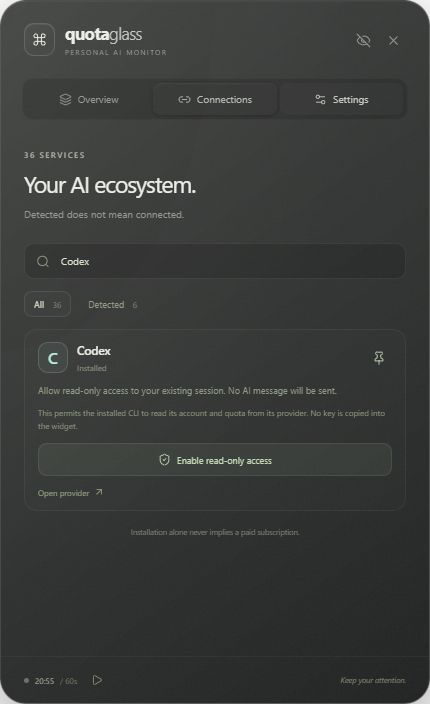
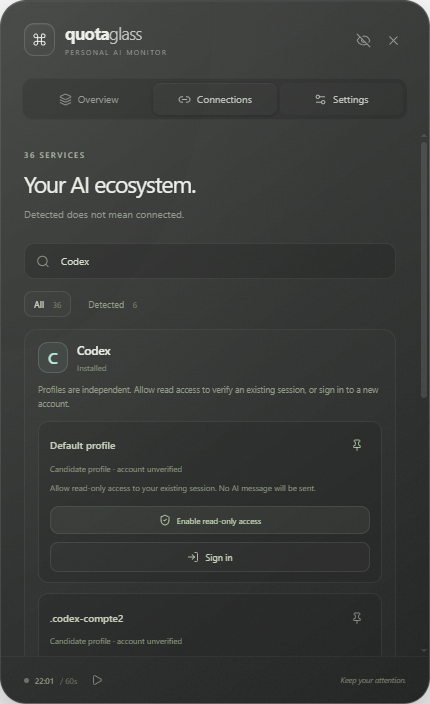
docs: record multi-profile coverage and packaged login verification

diff --git a/README.md b/README.md
@@ -6,26 +6,28 @@ Widget Windows autonome FR / EN pour découvrir les outils IA locaux et lire les
 
 Double-cliquer `release/Quota-Glass-0.1.0-win-x64.exe`. Aucun droit administrateur nécessaire. Le lancement portable extrait temporairement Electron ; patienter au premier démarrage. Application non signée : Windows peut afficher un avertissement. L'application ne télécharge pas de modèles et n'envoie aucun message IA.
 
-L'icône près de l'horloge (parfois dans les icônes masquées) affiche/masque le widget au clic. Ctrl+Alt+Q fait de même. Le bouton de fermeture masque la fenêtre ; Quitter arrête le processus et la collecte. Masquer conserve la collecte ; Pause la suspend. La position est conservée. Le mode compact réduit les cartes. La fenêtre peut rester au premier plan.
+L'icône près de l'horloge (parfois dans les icônes masquées) affiche/masque le widget au clic. Ctrl+Alt+Q fait de même. Le bouton œil barré masque ; la croix visible « Quitter » arrête le processus et la collecte. Une fermeture native de la fenêtre masque également le widget. Masquer conserve la collecte ; Pause la suspend. La position est conservée. Le mode compact réduit les cartes. La fenêtre peut rester au premier plan. Quitter l'ancienne version avant de remplacer son exécutable portable.
 
 ## Connecter les données
 
-1. Ouvrir Connexions. Les installations et traces de configuration sont détectées sans ouvrir les fichiers d'identifiants.
-2. Pour Codex / Claude Code, utiliser d'abord le parcours de connexion du CLI si nécessaire (`codex login` / `claude auth login`). Ne pas transmettre de mot de passe ou de clé dans un chat.
-3. Choisir « Autoriser la lecture seule » sur le service voulu. Le widget réutilise alors la session de ce CLI ; aucun secret n'est copié dans le widget.
+1. Ouvrir Connexions. Les outils et profils sont détectés sans ouvrir les fichiers d'identifiants. Chaque profil possède sa propre ligne. Les dossiers .codex, .codex-compte1, .codex-compte2 sont des exemples : les noms ne sont pas codés en dur. Un dossier candidat ne prouve pas une connexion valide ni un compte distinct.
+2. Pour un profil déjà connecté, cliquer « Autoriser la lecture seule », puis l'épingler si souhaité. L'autorisation du profil par défaut n'est pas étendue aux autres profils. « Retirer l'accès » ne déconnecte pas le CLI et n'affecte pas les autres profils.
+3. « Se connecter » ouvre un terminal Windows : Codex utilise `codex login`, Claude `claude auth login`, Gemini démarre en interactif (utiliser `/auth` si nécessaire). Vous réalisez vous-même le parcours officiel. Ce bouton autorise la lecture du seul profil sélectionné et l'épingle. « Ajouter un compte » crée un profil séparé dans les données du widget, puis ouvre sa connexion, sans copier de clé ni remplacer les autres profils. Ne pas transmettre de mot de passe ou code dans un chat.
 4. Codex : lecture du compte et des fenêtres de quota ChatGPT si le serveur les expose. Un compte API n'est pas un abonnement ChatGPT.
 5. Claude Code : état du compte et formule lorsque le CLI les fournit ; le quota n'est pas exposé par le connecteur de cette version.
 6. Ollama / LM Studio : inventaire des modèles du service local, si installé et en cours d'exécution sur son port par défaut, après autorisation. Aucun quota cloud fictif.
 
-Gemini CLI, Cursor, Windsurf, Copilot et les agents : détection selon les chemins connus, pas de promesse de quotas. Les autres services sont au catalogue « Prévu » : ils ne sont pas connectés. Voir SUPPORT.md pour les capacités exactes. Les agents qui utilisent un fournisseur amont ne sont pas additionnés à sa facturation.
+Si le CLI manque : « Déjà installé ? » sélectionne son exécutable .exe ou son launcher npm .cmd ; « Installer le CLI » ouvre sa documentation officielle, sans installation automatique. « Ajouter un dossier de profil » importe un emplacement personnalisé. Codex et Claude attendent leur dossier de configuration ; Gemini attend le home contenant .gemini, pas .gemini directement. « Rechercher à nouveau » relance la découverte ; après connexion, revenir au widget ou actualiser. Une modification du fichier de connexion est surveillée pendant dix minutes ; la fermeture du terminal relance aussi la recherche. Un terminal laissé ouvert reste sous votre contrôle.
+
+Gemini CLI propose maintenant le login, mais sa formule et ses quotas ne sont toujours pas lus. Cursor, Windsurf, Copilot et les agents : détection selon les chemins connus, pas de promesse de quotas. Les autres services sont au catalogue « Prévu » : ils ne sont pas connectés. Voir SUPPORT.md pour les capacités exactes. Les agents qui utilisent un fournisseur amont ne sont pas additionnés à sa facturation.
 
 Réglages > Langue permet Français / English. Actualisation par défaut toutes les 60 secondes ; les fournisseurs peuvent retourner des données retardées. Les erreurs conservent les dernières valeurs avec indication de péremption. Alertes aux seuils 20% / 5%, désactivables. Démarrage avec Windows désactivé dans cette version portable pour ne pas créer une entrée vers un exécutable extrait éphémère. Le flou natif dépend de Windows ; repli sombre translucide sur Windows 10.
 
 ## Données et sécurité
 
-Préférences uniquement sous `%APPDATA%/Quota Glass/settings.json`. Une session CLI est utilisée seulement après accord par service. Aucun cookie navigateur, conversation, clé API ou jeton n'est importé. Pas de télémétrie. Aucun login automatique. Révoquer l'accès dans Connexions retire l'autorisation du widget, sans déconnecter le CLI. Supprimer les préférences réinitialise les autorisations du widget.
+Préférences sous `%APPDATA%/Quota Glass/settings.json` ; chemins des profils et exécutables sélectionnés sous registry.json. Aucun secret n'y est stocké. Les nouveaux profils de connexion vivent sous profiles/ dans ce même dossier ; leurs identifiants sont écrits et gérés par les CLI officiels, pas importés par le widget. Scripts temporaires de lancement sous login-scripts/, répertoire de travail neutre sous login-workspaces/. Une session CLI est utilisée seulement après accord pour ce profil. Aucun cookie navigateur, conversation, clé API ou jeton n'est importé. Pas de télémétrie. Aucun login lancé sans clic utilisateur. Supprimer les préférences réinitialise les autorisations du widget, sans supprimer les profils CLI.
 
-L'interface est sandboxée, sans Node, avec IPC validé et URLs externes prédéfinies. Le processus principal réalise les accès système. Un lanceur CLI npm inconnu est refusé. Les moteurs locaux n'acceptent que les adresses loopback fixes 11434/1234. Une identité active par CLI ; multi-compte simultané non implémenté.
+L'interface est sandboxée, sans Node, avec IPC validé et URLs externes prédéfinies. Le renderer ne choisit ni commandes ni chemins shell ; dialogues système et registre sont contrôlés par le main. Un lanceur CLI npm inconnu est refusé. CODEX_HOME / CLAUDE_CONFIG_DIR / GEMINI_CLI_HOME sont appliqués uniquement au processus du profil sélectionné. Les moteurs locaux n'acceptent que les adresses loopback fixes 11434/1234. Plusieurs profils sont suivis simultanément ; deux profils ne sont signalés comme le même compte que si une identité serveur fiable le confirme, jamais à partir du seul email masqué. Les quotas ne sont pas additionnés.
 
 ## Développer
 
@@ -38,7 +40,7 @@ Node 24 utilisé lors de la construction. Dans le dossier du projet :
     npm run test:ui
     npm run dist
 
-Le test navigateur utilise Microsoft Edge installé. `node scripts/smoke.cjs` exerce l'application Electron ; ajouter le chemin de `release/win-unpacked/Quota Glass.exe` pour la version empaquetée. Les répertoires de test sont isolés dans le scratch Hermes. Les réponses synthétiques n'existent que dans les tests et ne sont jamais présentées comme des quotas réels. `QG_DATA_DIR` permet de choisir un dossier de préférences séparé (ne pas pointer vers une configuration d'un autre produit).
+Le test navigateur utilise Microsoft Edge installé. `node scripts/smoke.cjs` exerce l'application Electron ; ajouter le chemin de `release/win-unpacked/Quota Glass.exe` pour la version empaquetée. `node scripts/test-native-login.cjs` teste le bouton, le terminal, l'isolation et les permissions avec un faux CLI explicitement synthétique ; aucun compte réel n'est connecté. Les répertoires de test sont isolés dans le scratch Hermes. Les réponses synthétiques n'existent que dans les tests. `QG_DATA_DIR` permet de choisir un dossier de préférences séparé (ne pas pointer vers une configuration d'un autre produit).
 
 ## English quick start
 

diff --git a/SUPPORT.md b/SUPPORT.md
@@ -6,16 +6,16 @@ Aucun fournisseur n'est présenté comme universellement connecté. Les sources 
 |---|---|---|---|
 | Codex CLI | PATH, npm, extension VS Code | `codex app-server`, `account/read`, après accord | `account/rateLimits/read`, fenêtres serveur si abonnement ChatGPT et réponse disponible |
 | Claude Code | PATH, npm, extension VS Code | `claude auth status --json`, après accord | Non accessible par API publique implémentée ; ouvrir Claude Usage |
-| Gemini CLI | PATH, npm | Non implémenté | Non implémenté ; ne pas confondre AI Studio et abonnement Gemini |
+| Gemini CLI | PATH, npm ; profils via home/.gemini | Login terminal officiel, vérification serveur de compte non implémentée | Non implémenté ; ne pas confondre AI Studio et abonnement Gemini |
 | OpenCode / Aider / Continue | Installation/configuration selon outil | Fournisseur amont | Pas de quota propre ni double comptage |
 | Ollama / LM Studio | CLI et chemins connus | Sans compte cloud | Inventaire local via API loopback après accord ; pas de faux quota |
 | Cursor / Windsurf / Copilot | CLI/app/extension selon produit | Non implémenté | Non implémenté |
 | Autres entrées du catalogue | Catalogue seulement | Prévu | Prévu |
 
 Source protocole Codex vérifiée sur le CLI installé via `codex app-server generate-ts`, notamment RateLimitWindow, RateLimitSnapshot, GetAccountRateLimitsResponse et Account. Protocole expérimental : les évolutions peuvent demander une mise à jour. Aucune requête de génération n'est faite. Aucune utilisation de cookies ou endpoints privés cloud.
-Les exécutables npm sont lancés via leurs points d'entrée Node connus, pas par une commande shell composée. Un launcher inconnu est refusé. Un fichier de configuration seul n'établit jamais une installation ni un abonnement.
+Les lectures en arrière-plan lancent les points d'entrée Node connus, sans shell. La connexion à la demande ouvre un terminal Windows via un script à commandes fixes et chemins validés/échappés. Aucun texte de commande arbitraire reçu du renderer. Un launcher npm inconnu est refusé. Un fichier de configuration seul n'établit jamais une installation ni un abonnement.
 Les quotas ChatGPT conversationnels ne sont pas les quotas Codex. Les chiffres locaux d'activité ne remplacent pas le quota serveur. Les API facturées restent distinctes des abonnements chat.
 
-FR/EN disponibles. Une seule identité active par CLI dans cette version ; pas de changement automatique de compte. Aucun secret fourni directement au widget : il délègue à la session CLI existante, après accord. Connexion initiale ou renouvellement dans le CLI/fournisseur lui-même ; le widget n'exécute pas de login automatique.
+FR/EN disponibles. Plusieurs profils Codex/Claude/Gemini sont gérés avec autorisations indépendantes. Détection bornée des répertoires Codex/Claude standards et suffixés, overrides d'environnement et registre manuel. Gemini utilise un home qui contient .gemini ; ses emplacements personnalisés peuvent être ajoutés manuellement. Les profils gérés par le widget sont retrouvés grâce à registry.json. Ajouter un compte crée un nouveau dossier, sans copie des identifiants d'un autre profil. Aucun login sans clic ; le parcours officiel reste sous contrôle humain. Les limites de quota Claude/Gemini ne changent pas du seul fait que leur login est accessible.
 
 Vérification finale et limites de la machine : voir VERIFICATION.md généré lors de la livraison.

diff --git a/VERIFICATION.md b/VERIFICATION.md
@@ -1,5 +1,20 @@
 # Vérification réelle — 2026-10-23
 
+## Mise à jour multi-profils et login terminal
+
+- 38 tests unitaires/subprocess réussis ; typecheck réussi ; 2 parcours UI Edge réussis ; audit npm zéro vulnérabilité signalée.
+- Découverte Windows réelle : profils Codex par défaut, .codex-compte1 et .codex-compte2 reconnus avec IDs distincts. Présence de configuration uniquement : pas de compte réel interrogé.
+- Smoke natif empaqueté : 12 contrôles réussis, rapport C:/Users/Administrator/AppData/Local/hermes/cache/scratch/quota-glass-smoke-1792785673554/report.json. Raccourci de test distinct pour ne pas prendre celui d'une autre instance.
+- Bouton de login testé via le véritable IPC et terminal Windows dans l'application empaquetée, avec un CLI synthétique et dossiers de test uniquement : profil sélectionné transmis, autorisation de ce seul profil, lecture de métriques synthétiques, dédoublonnage par identité et révocation indépendante vérifiés. Test scripts/test-native-login.cjs, répertoire C:/Users/Administrator/AppData/Local/hermes/cache/scratch/qg-native-login-fixture-lA8k5M. Ces métriques ne sont pas des quotas utilisateur.
+- Test console Windows séparé : espaces, &, % et ! dans les chemins préservés. Aucun prompt IA ni vrai login pendant les vérifications.
+- Dans le Playwright présent ici, waitForFunction(async()=>false) a résolu prématurément (reproduction Edge). Les attentes natives utilisent maintenant un polling Node d'IPC effectivement résolu ; vérifications relancées avec ce mécanisme.
+- Packaging initial bloqué par l'ancienne application en cours d'exécution. Ancien processus du widget fermé, terminaux/comptes non modifiés ; rebuild réussi.
+- Exécutable mis à jour au même emplacement : release/Quota-Glass-0.1.0-win-x64.exe, 102362381 octets, SHA256 f74b6ddb3784d10d062b20329753026d6801457b2d2541cacdca2cc823f966c2.
+- Aucun quota serveur réel ni login OAuth utilisateur vérifié. Claude et Gemini gardent leurs limites de lecture de quotas. Revue indépendante de l'extension en cours avant clôture.
+
+## Historique de la première livraison
+
+
 - Windows 10 x64, Node 24.19.0, Electron 45.0.0.
 - `npm test` : 28 tests unitaires et subprocess, tous réussis.
 - `npm run typecheck` : réussi.
